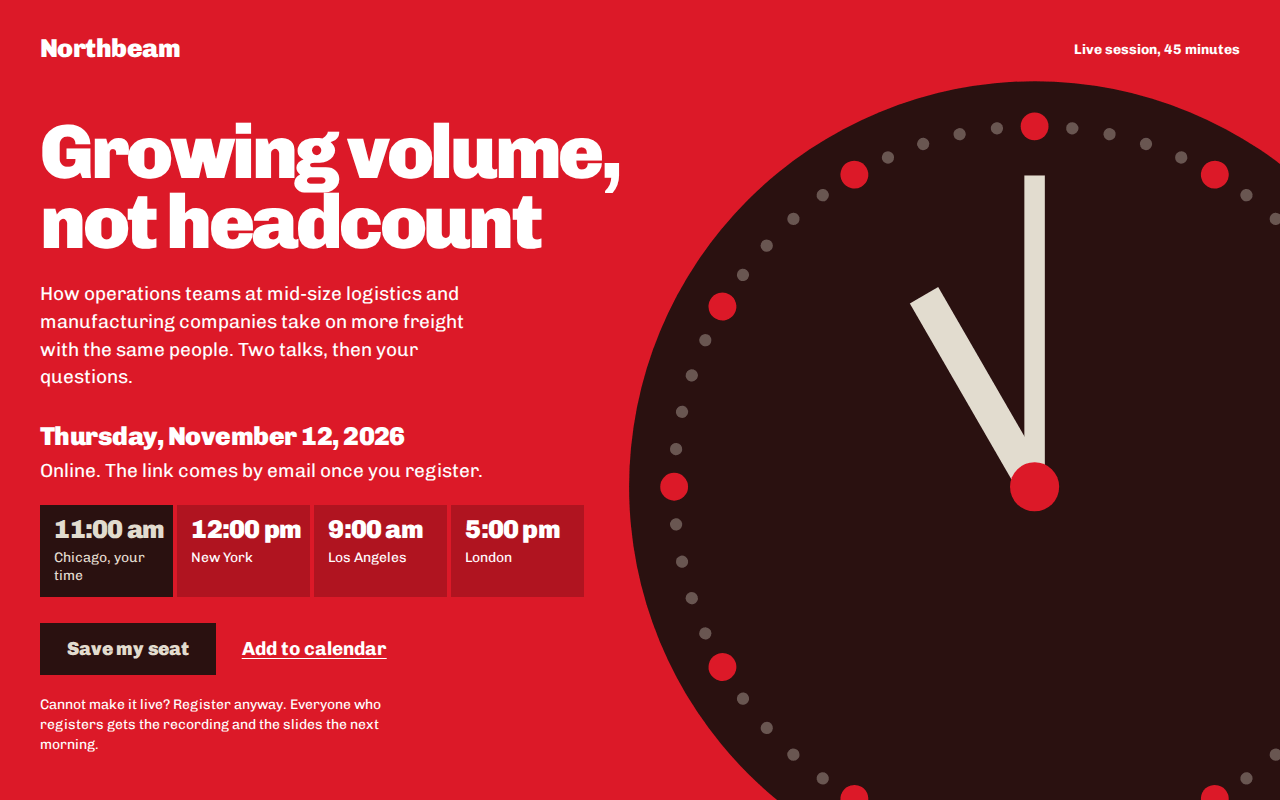
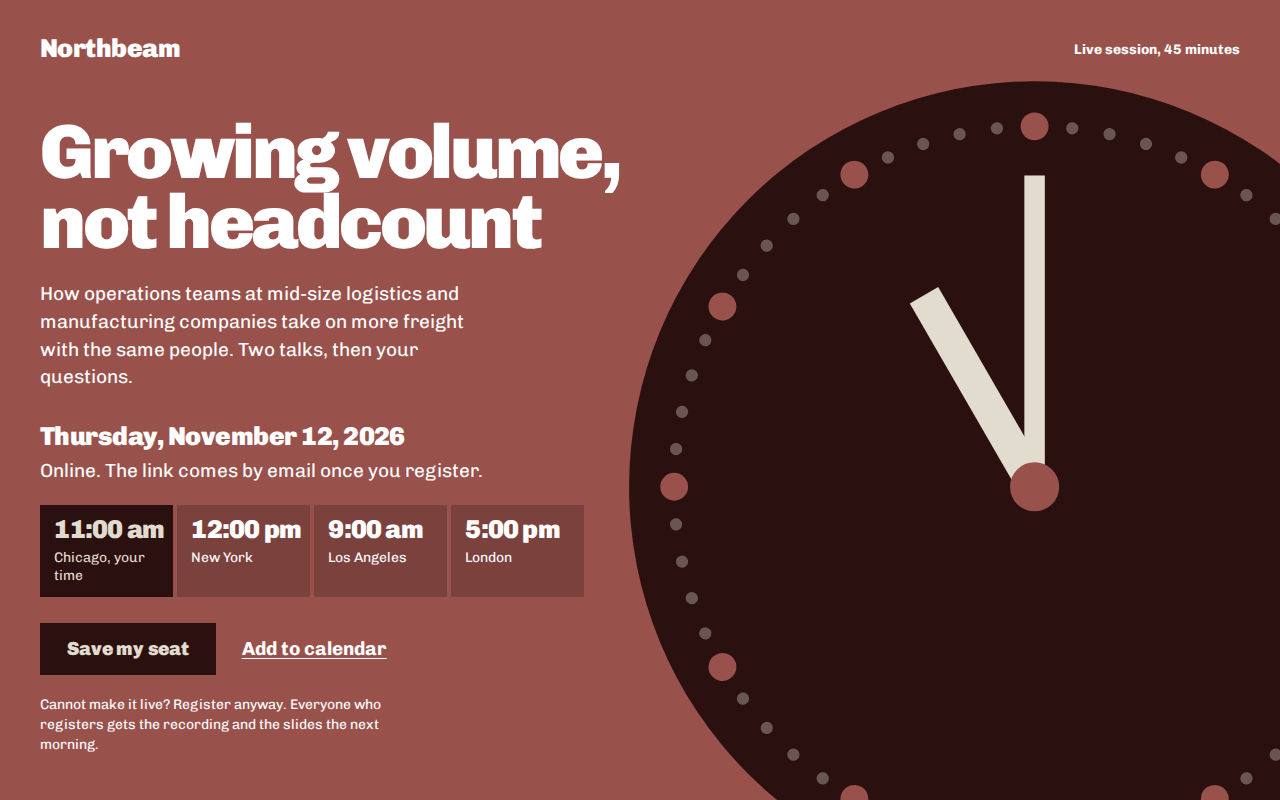
Library colour pass: webinar, softer on-air red and mustard

diff --git a/starters/webinar/preview/brightwave.html b/starters/webinar/preview/brightwave.html
@@ -8,13 +8,13 @@
 <link rel="stylesheet" href="https://fonts.googleapis.com/css2?family=Chivo:wght@400;700;900&display=swap">
 <style>
 :root{
-  --p:#dc1928;
+  --p:#99514c;
   --s:#2a1110;
   --fh:'Chivo','Arial Black',Arial,sans-serif;
   --fb:'Chivo',Arial,sans-serif;
   --bone:#e2dccf;
   --ink:var(--s);
-  --mustard:#e0a912;
+  --mustard:#d4b26e;
   --slate:#4a6f84;
   --on-p:#fff;--off-p:#2a1110;--on-s:var(--bone);--on-mustard:var(--ink);--on-slate:#fff;
   --m:clamp(1rem,3.2vw,2.5rem);
